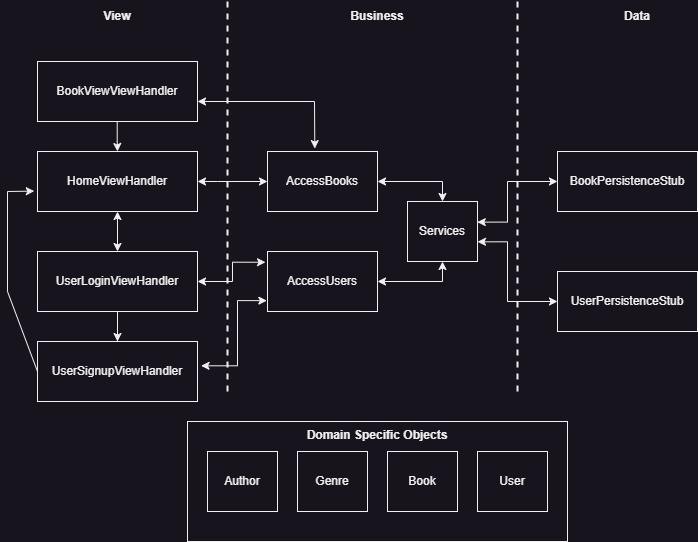
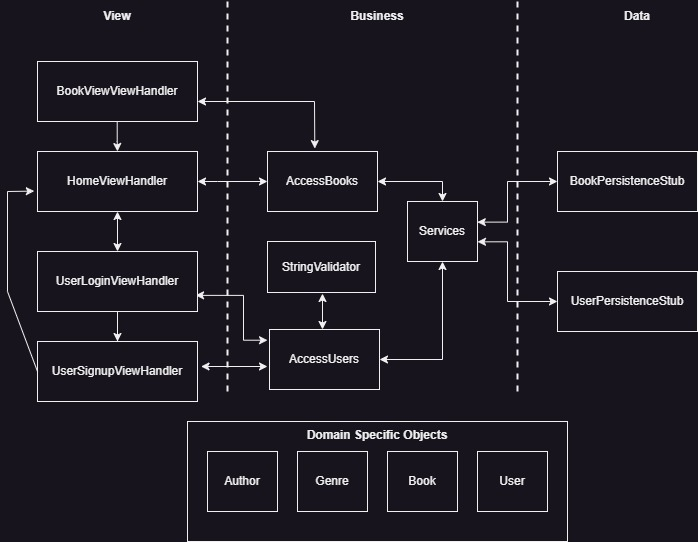
Resolve "DevTask: Add more form validation coverage"

diff --git a/app/src/test/java/honda/bookworm/tests/Business/AccessUsersTest.java b/app/src/test/java/honda/bookworm/tests/Business/AccessUsersTest.java
@@ -187,5 +187,115 @@ public class AccessUsersTest {
         System.out.println("Finished testAddUserFailShortUserName");
     }
 
+    @Test
+    public void testValidateUserInput() {
+        System.out.println("Starting testValidateUserInput");
+
+        //Test valid input
+        try {
+            signUp.validateUserInput("John", "Doe", "johndoe", "password1");
+        } catch (Exception e) {
+            assertTrue("Valid input should not throw an exception", false);
+        }
+
+        //Test empty first name
+        try {
+            signUp.validateUserInput("", "Doe", "johndoe", "password1");
+            assertTrue("Empty first name should throw an exception", false);
+        } catch (Exception e) {
+            assertEquals("First name and last name must not be empty", e.getMessage());
+        }
+
+        //Test invalid characters in first name
+        try {
+            signUp.validateUserInput("John123", "Doe", "johndoe", "password1");
+            assertTrue("Invalid characters in first name should throw an exception", false);
+        } catch (Exception e) {
+            assertEquals("First name and last name can only contain alphabets", e.getMessage());
+        }
+
+        //Test too long first name
+        try {
+            signUp.validateUserInput("Johnathonathonathonathon", "Doe", "johndoe", "password1");
+            assertTrue("Too long first name should throw an exception", false);
+        } catch (Exception e) {
+            assertEquals("First name and last name cannot exceed 16 characters", e.getMessage());
+        }
+
+        //Test too short first name
+        try {
+            signUp.validateUserInput("J", "Doe", "johndoe", "password1");
+            assertTrue("Too short first name should throw an exception", false);
+        } catch (Exception e) {
+            assertEquals("First name and last name must be greater than 2 characters", e.getMessage());
+        }
+
+        //Test empty username
+        try {
+            signUp.validateUserInput("John", "Doe", "", "password1");
+            assertTrue("Empty username should throw an exception", false);
+        } catch (Exception e) {
+            assertEquals("Username must not be empty", e.getMessage());
+        }
+
+        //Test whitespace in username
+        try {
+            signUp.validateUserInput("John", "Doe", "john doe", "password1");
+            assertTrue("Whitespace in username should throw an exception", false);
+        } catch (Exception e) {
+            assertEquals("Username cannot contain spaces", e.getMessage());
+        }
+
+        //Test invalid characters in username
+        try {
+            signUp.validateUserInput("John", "Doe", "john@doe", "password1");
+            assertTrue("Invalid characters in username should throw an exception", false);
+        } catch (Exception e) {
+            assertEquals("Invalid characters used in the username", e.getMessage());
+        }
+
+        //Test too long username
+        try {
+            signUp.validateUserInput("John", "Doe", "johndoejohndoejohndoe", "password1");
+            assertTrue("Too long username should throw an exception", false);
+        } catch (Exception e) {
+            assertEquals("Username cannot be greater than 16 characters", e.getMessage());
+        }
+
+        //Test too short username
+        try {
+            signUp.validateUserInput("John", "Doe", "j", "password1");
+            assertTrue("Too short username should throw an exception", false);
+        } catch (Exception e) {
+            assertEquals("Username must be greater than 2 characters", e.getMessage());
+        }
+
+        //Test too short password
+        try {
+            signUp.validateUserInput("John", "Doe", "johndoe", "12");
+            assertTrue("Too short password should throw an exception", false);
+        } catch (Exception e) {
+            assertEquals("Password must be greater than 2 characters", e.getMessage());
+        }
+
+        //Test too long password
+        try {
+            signUp.validateUserInput("John", "Doe", "johndoe", "passwordpasswordpassword");
+            assertTrue("Too long password should throw an exception", false);
+        } catch (Exception e) {
+            assertEquals("Password must be less than 16 characters", e.getMessage());
+        }
+
+        //Test whitespace in password
+        try {
+            signUp.validateUserInput("John", "Doe", "johndoe", "password 1");
+            assertTrue("Whitespace in password should throw an exception", false);
+        } catch (Exception e) {
+            assertEquals("Password cannot contain whitespaces", e.getMessage());
+        }
+
+        System.out.println("Finished testValidateUserInput");
+    }
+
 
 }

diff --git a/app/src/main/java/honda/bookworm/Business/AccessUsers.java b/app/src/main/java/honda/bookworm/Business/AccessUsers.java
@@ -8,7 +8,6 @@ import honda.bookworm.Object.Author;
 import honda.bookworm.Object.User;
 
 public class AccessUsers {
-
     private IUserPersistence userPersistence;
 
     public AccessUsers(){
@@ -20,7 +19,7 @@ public class AccessUsers {
         User result;
 
         //form validation checks
-        validateInput(first, last, username, password);
+        validateUserInput(first, last, username, password);
 
         if (isAuthor) {
             newUser = new Author(first, last, username, password);
@@ -37,24 +36,6 @@ public class AccessUsers {
         Services.setActiveUser(result);
 
         return result;
-    }
-
-    private void validateInput(String first, String last, String username, String password) {
-        if (isEmpty(first) || isEmpty(last) || isEmpty(username)) {
-            throw new IllegalStateException("First name, last name, and username must not be empty");
-        }
-
-        if (password.length() <= 3) {
-            throw new IllegalStateException("Password must be greater than 3 characters");
-        }
-
-        if (username.length() < 2) {
-            throw new IllegalStateException("Usernames must be at least 2 characters long.");
-        }
-    }
-
-    private boolean isEmpty(String str) {
-        return str == null || str.trim().isEmpty();
     }
 
     public boolean verifyUser(String username, String password) {
@@ -83,5 +64,55 @@ public class AccessUsers {
         return userPersistence.getAllUsers();
     }
 
+    //Validator functions----------------------------------------------------------------------------
+    public void validateUserInput(String first, String last, String username, String password) {
+        validateNames(first, last);
+        validateUsername(username);
+        validatePassword(password);
+    }
+    public static void validateNames(String first, String last) {
+        if (StringValidator.isEmpty(first) || StringValidator.isEmpty(last)) {
+            throw new IllegalStateException("First name and last name must not be empty");
+        }
+        if (!StringValidator.isAlphaOnly(first) || !StringValidator.isAlphaOnly(last)) {
+            throw new IllegalStateException("First name and last name can only contain alphabets");
+        }
+        if (StringValidator.isTooLong(first) || StringValidator.isTooLong(last)) {
+            throw new IllegalStateException("First name and last name cannot exceed 16 characters");
+        }
+        if (StringValidator.isTooShort(first) || StringValidator.isTooShort(last)) {
+            throw new IllegalStateException("First name and last name must be greater than 2 characters");
+        }
+    }
+
+    public static void validateUsername(String username) {
+        if (StringValidator.isEmpty(username)) {
+            throw new IllegalStateException("Username must not be empty");
+        }
+        if (StringValidator.containsWhitespace(username)) {
+            throw new IllegalStateException("Username cannot contain spaces");
+        }
+        if (!StringValidator.isValidInput(username)) {
+            throw new IllegalStateException("Invalid characters used in the username");
+        }
+        if (StringValidator.isTooLong(username)) {
+            throw new IllegalStateException("Username cannot be greater than 16 characters");
+        }
+        if (StringValidator.isTooShort(username)) {
+            throw new IllegalStateException("Username must be greater than 2 characters");
+        }
+    }
+
+    public static void validatePassword(String password) {
+        if (StringValidator.isTooShort(password)) {
+            throw new IllegalStateException("Password must be greater than 2 characters");
+        }
+        if (StringValidator.isTooLong(password)) {
+            throw new IllegalStateException("Password must be less than 16 characters");
+        }
+        if (StringValidator.containsWhitespace(password)) {
+            throw new IllegalStateException("Password cannot contain whitespaces");
+        }
+    }
 
 }

diff --git a/app/src/test/java/honda/bookworm/tests/Business/StringValidatorTest.java b/app/src/test/java/honda/bookworm/tests/Business/StringValidatorTest.java
@@ -1,0 +1,79 @@
+package honda.bookworm.tests.Business;
+
+import static org.junit.Assert.assertFalse;
+import static org.junit.Assert.assertTrue;
+import org.junit.Test;
+
+import honda.bookworm.Business.StringValidator;
+
+public class StringValidatorTest {
+
+    @Test
+    public void testIsEmpty() {
+        System.out.println("Starting testIsEmpty");
+
+        assertTrue(StringValidator.isEmpty(null));
+        assertTrue(StringValidator.isEmpty(""));
+        assertTrue(StringValidator.isEmpty(" "));
+        assertFalse(StringValidator.isEmpty("Hello"));
+
+        System.out.println("Finished testIsEmpty");
+    }
+
+    @Test
+    public void testContainsWhitespace() {
+        System.out.println("Starting testContainsWhitespace");
+
+        assertTrue(StringValidator.containsWhitespace("Hello World"));
+        assertFalse(StringValidator.containsWhitespace("HelloWorld"));
+        assertFalse(StringValidator.containsWhitespace(""));
+
+        System.out.println("Finished testContainsWhitespace");
+    }
+
+    @Test
+    public void testIsAlphaOnly() {
+        System.out.println("Starting testIsAlphaOnly");
+
+        assertTrue(StringValidator.isAlphaOnly("abc"));
+        assertTrue(StringValidator.isAlphaOnly("ABC"));
+        assertFalse(StringValidator.isAlphaOnly("abc123"));
+        assertFalse(StringValidator.isAlphaOnly("abc!"));
+
+        System.out.println("Finished testIsAlphaOnly");
+    }
+
+    @Test
+    public void testIsValidInput() {
+        System.out.println("Starting testIsValidInput");
+
+        assertTrue(StringValidator.isValidInput("abc"));
+        assertTrue(StringValidator.isValidInput("ABC"));
+        assertTrue(StringValidator.isValidInput("abc123"));
+        assertTrue(StringValidator.isValidInput("abc_-"));
+        assertFalse(StringValidator.isValidInput("abc!"));
+        assertFalse(StringValidator.isValidInput("ab/c@d/ef"));
+
+        System.out.println("Finished testIsValidInput");
+    }
+
+    @Test
+    public void testIsTooLong() {
+        System.out.println("Starting testIsTooLong");
+
+        assertTrue(StringValidator.isTooLong("ThisStringIsTooLong"));
+        assertFalse(StringValidator.isTooLong("Short"));
+
+        System.out.println("Finished testIsTooLong");
+    }
+
+    @Test
+    public void testIsTooShort() {
+        System.out.println("Starting testIsTooShort");
+
+        assertTrue(StringValidator.isTooShort("A"));
+        assertFalse(StringValidator.isTooShort("LongEnough"));
+
+        System.out.println("Finished testIsTooShort");
+    }
+}

diff --git a/app/src/test/java/honda/bookworm/tests/AllUnitTests.java b/app/src/test/java/honda/bookworm/tests/AllUnitTests.java
@@ -3,11 +3,14 @@ package honda.bookworm.tests;
 import org.junit.runner.RunWith;
 import org.junit.runners.Suite;
 
+import honda.bookworm.tests.Business.AccessBooksTest;
+import honda.bookworm.tests.Business.AccessUsersTest;
 import honda.bookworm.tests.Data.BookPersistenceStubTest;
 import honda.bookworm.tests.Data.UserPersistenceStubTest;
 import honda.bookworm.tests.Object.BookTest;
 import honda.bookworm.tests.Object.UserTest;
 import honda.bookworm.tests.Object.AuthorTest;
+import honda.bookworm.tests.Business.StringValidatorTest;
 
 @RunWith(Suite.class)
 @Suite.SuiteClasses({
@@ -15,7 +18,10 @@ import honda.bookworm.tests.Object.AuthorTest;
         UserTest.class,
         AuthorTest.class,
         UserPersistenceStubTest.class,
-        BookPersistenceStubTest.class
+        BookPersistenceStubTest.class,
+        StringValidatorTest.class,
+        AccessBooksTest.class,
+        AccessUsersTest.class
 })
 
 public class AllUnitTests {

diff --git a/app/src/main/java/honda/bookworm/Business/StringValidator.java b/app/src/main/java/honda/bookworm/Business/StringValidator.java
@@ -1,0 +1,32 @@
+package honda.bookworm.Business;
+
+public class StringValidator {
+
+    //String checker helper functions
+    public static boolean isEmpty(String str) {
+        return str == null || str.trim().isEmpty();
+    }
+
+    public static boolean containsWhitespace(String str) {
+        return str.contains(" ");
+    }
+
+    public static boolean isAlphaOnly(String str) {
+        return str.matches("[a-zA-Z]+");
+    }
+
+    public static boolean isValidInput(String input) {
+        return input.matches("[a-zA-Z0-9_-]+");
+    }
+
+    public static boolean isTooLong(String str) {
+        int maxLength = 16;
+        return str.length() > maxLength;
+    }
+
+    public static boolean isTooShort(String str) {
+        int minLength = 3;
+        return str.length() < minLength;
+    }
+}
+

diff --git a/app/src/test/java/honda/bookworm/tests/AllIntegrationTests.java b/app/src/test/java/honda/bookworm/tests/AllIntegrationTests.java
@@ -8,8 +8,7 @@ import honda.bookworm.tests.Business.AccessUsersTest;
 
 @RunWith(Suite.class)
 @Suite.SuiteClasses({
-        AccessBooksTest.class,
-        AccessUsersTest.class
+
 })
 
 public class AllIntegrationTests {
